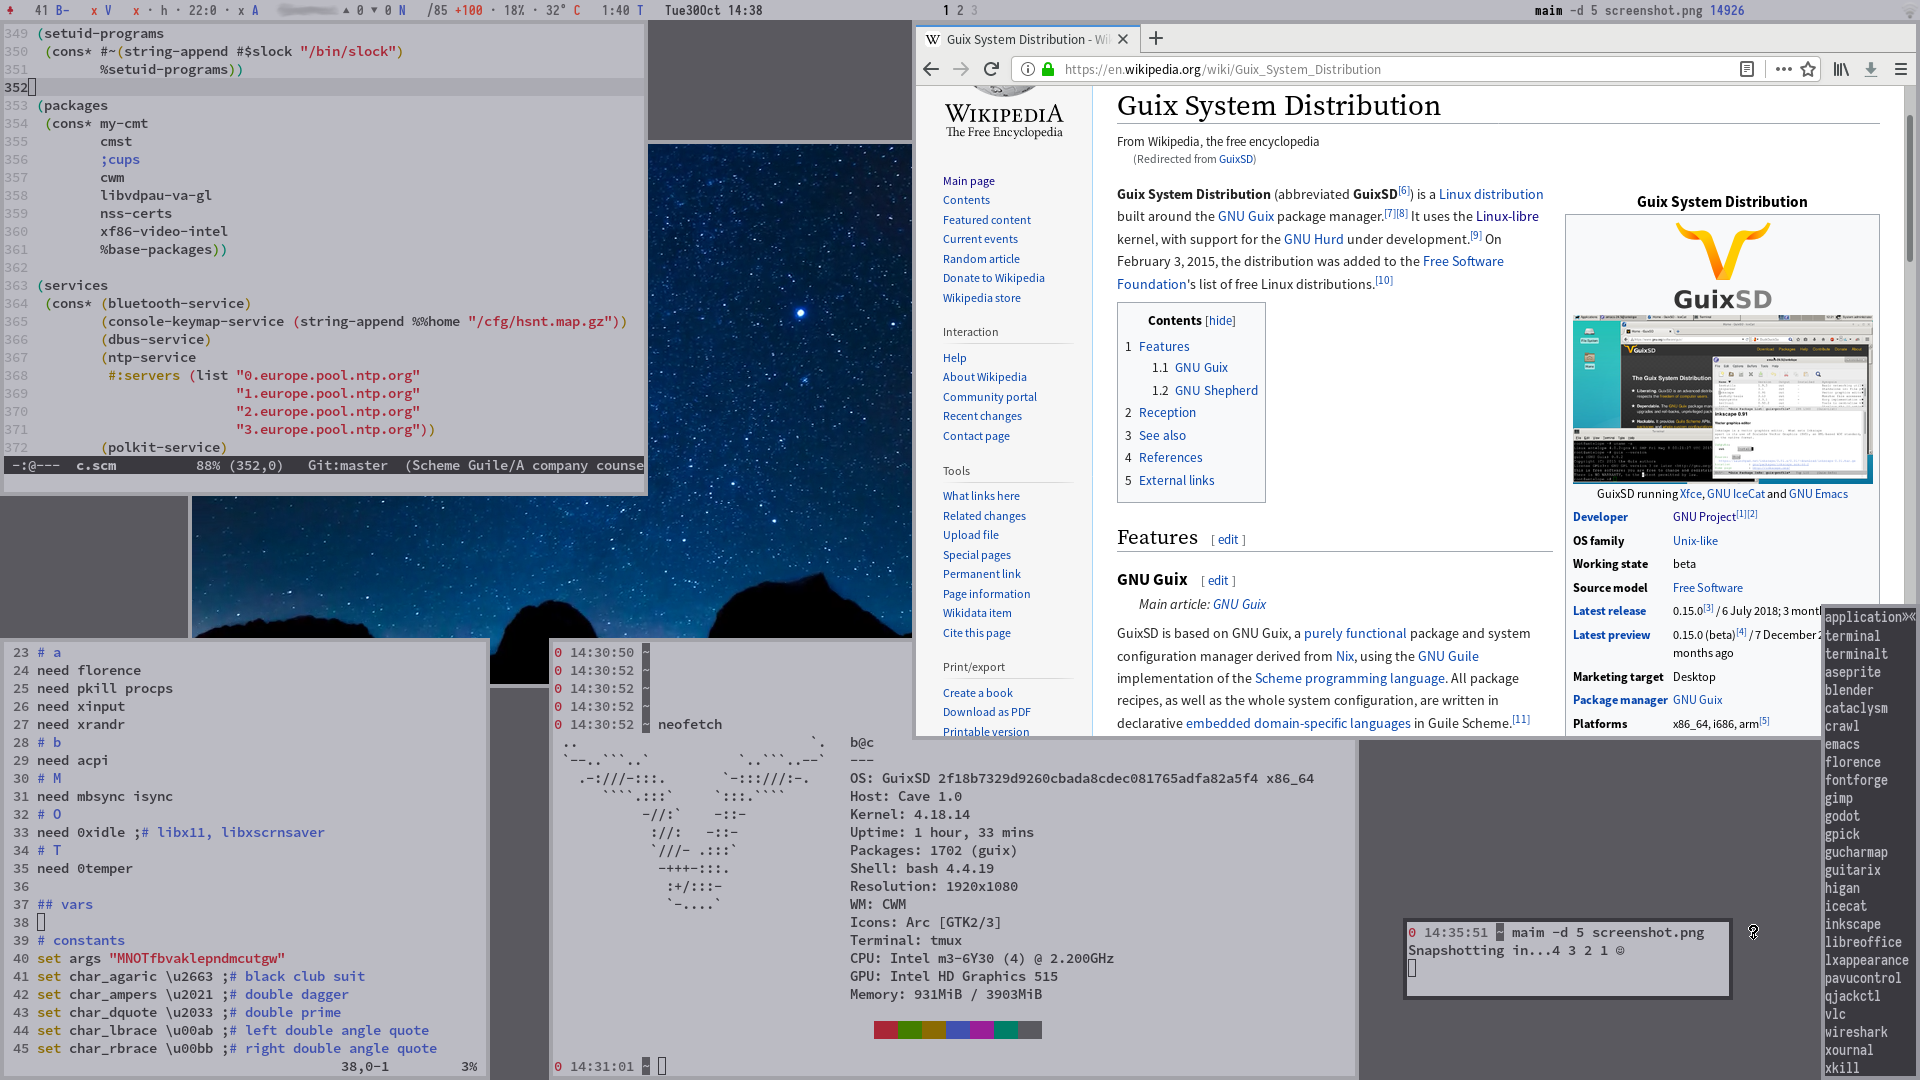
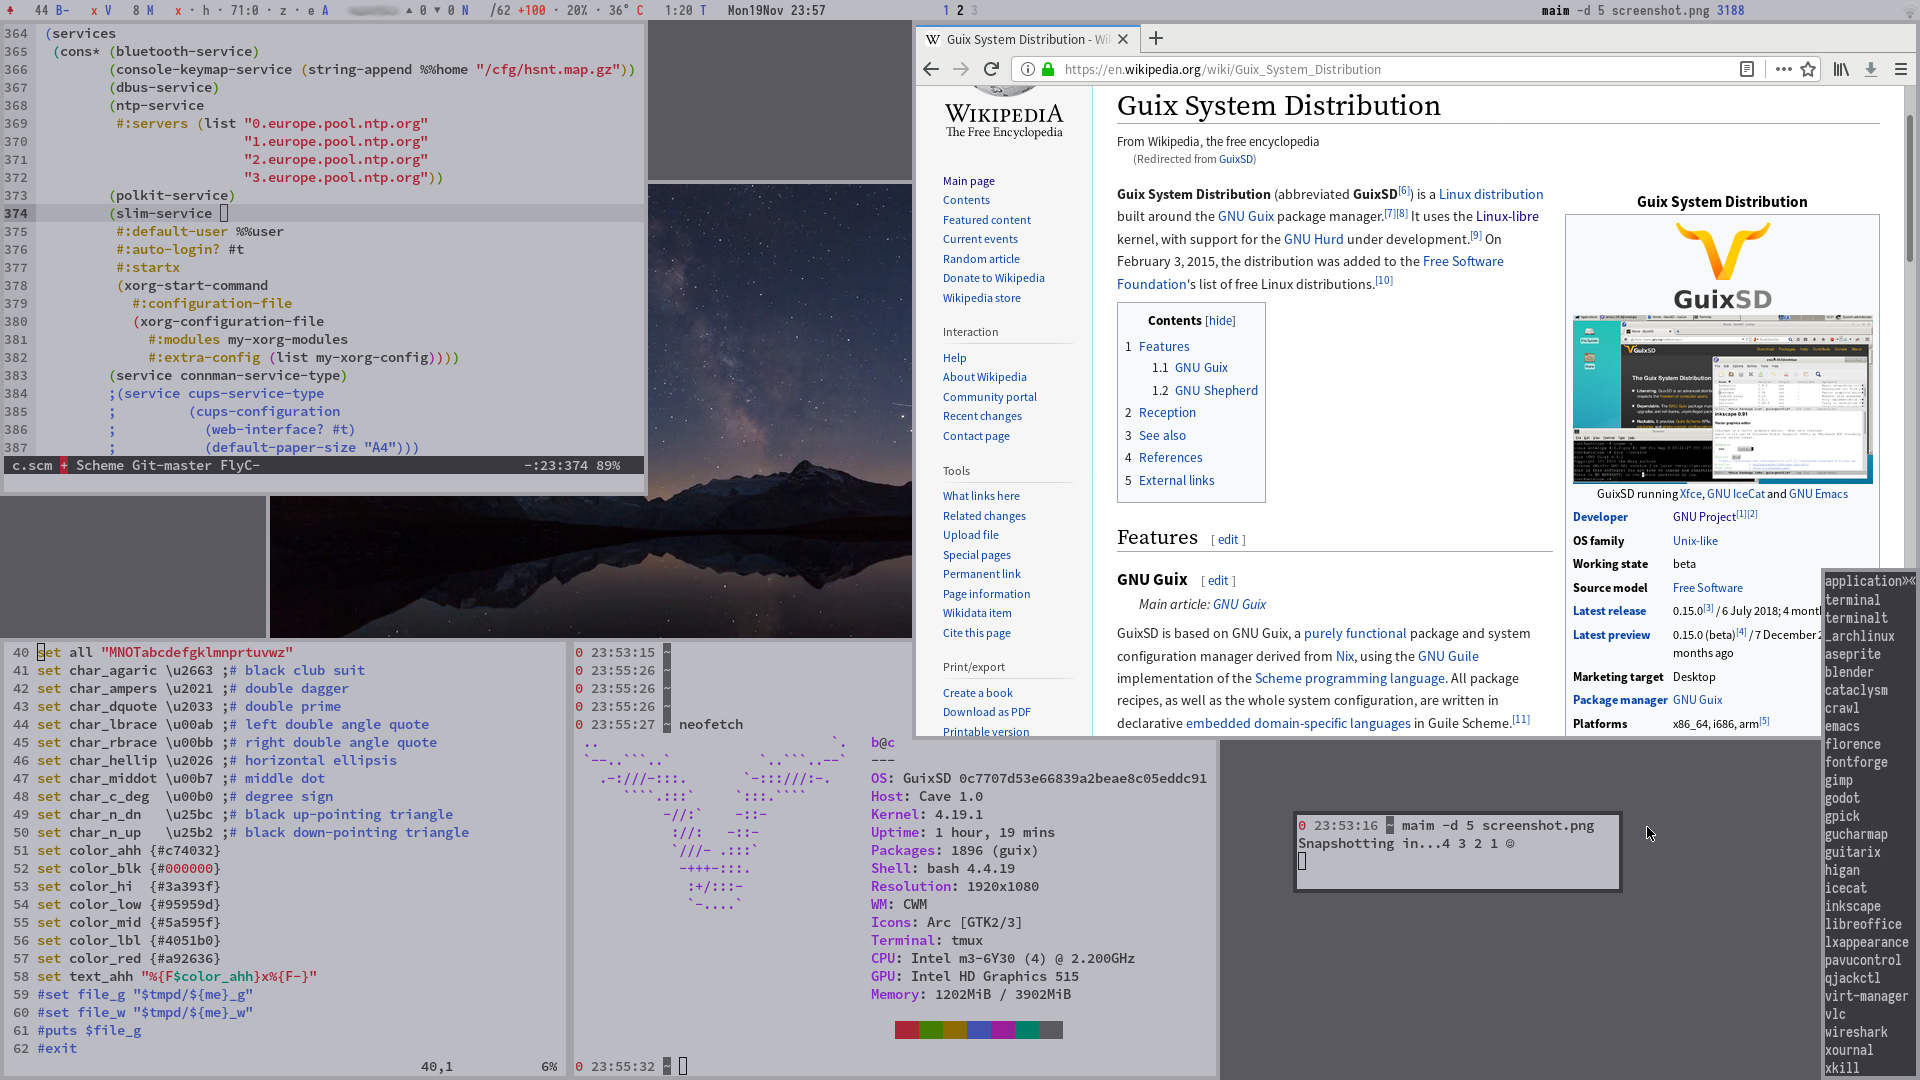
custom modeline and linum

diff --git a/_st/src/pub/st-0.8.1/config.h b/_st/src/pub/st-0.8.1/config.h
@@ -41,6 +41,7 @@ static const char *colorname[] = {
   /* DefaultXX */
   "#ffffff",
   "#16161d", // eigengrau
+  "#000000",
   "#a3a3a9",
   "#7e7e83",
   "#414143",
@@ -53,8 +54,8 @@ static unsigned int cursorshape = 2;
 static unsigned int cols = 80;
 static unsigned int rows = 24;
 static unsigned int mouseshape = XC_xterm;
-static unsigned int mousefg = 0;
-static unsigned int mousebg = 15;
+static unsigned int mousefg = 258;
+static unsigned int mousebg = 256;
 static unsigned int defaultattr = 5;
 static MouseShortcut mshortcuts[] = {
 	/* button               mask            string */
